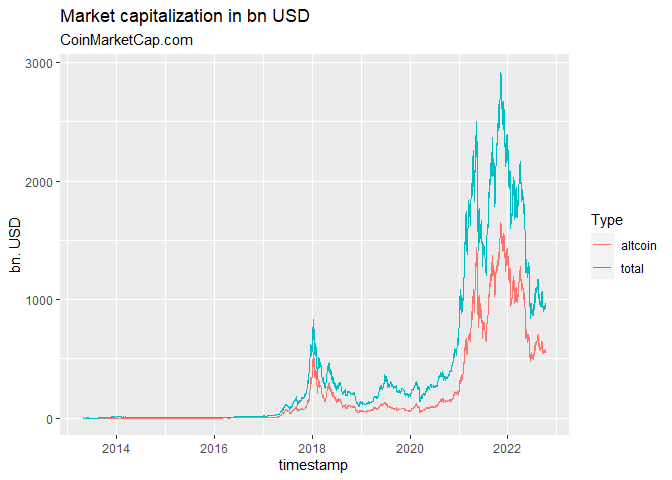
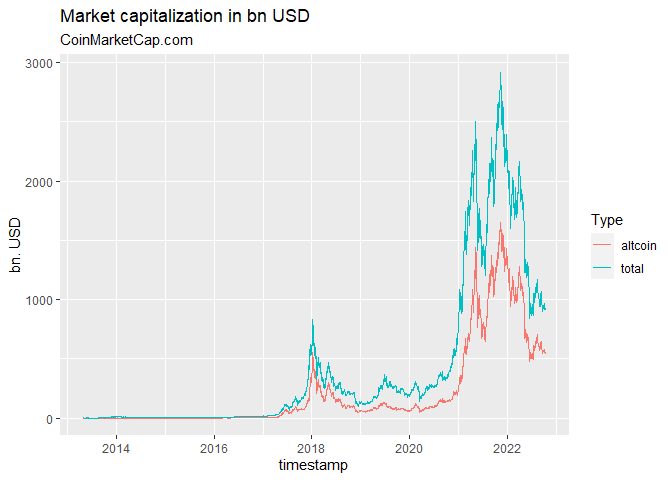
Fix bug, update readme

diff --git a/README.md b/README.md
@@ -59,7 +59,8 @@ It allows the user to retrieve
 # Update
 
 Since version 1.4.5 I have added a new function `crypto_global_quotes()`
-which retrieves global aggregate market statistics for CMC.
+which retrieves global aggregate market statistics for CMC. There also
+were some bugs fixed.
 
 Since version 1.4.4 a new function `crypto_listings()` was introduced
 that retrieves new/latest/historical listings and listing information at
@@ -140,8 +141,6 @@ coin_info <- crypto_info(coins, limit=3, finalWait=FALSE)
 #> 
 #> Scraping  https://web-api.coinmarketcap.com/v1/cryptocurrency/info?id=1,2,3  with  65  characters!
 #> ❯ Processing crypto info
-#> 
-#> ❯ Sleep for 60s before finishing to not have next function call end up with this data!
 #> 
 
 # and give the first two lines of information per coin
@@ -313,16 +312,16 @@ latest_listings
 #> # A tibble: 10 × 23
 #>       id name    symbol slug  self_…¹ self_…² tvl_r…³ last_upd…⁴ USD_p…⁵ USD_v…⁶
 #>    <int> <chr>   <chr>  <chr> <lgl>   <lgl>   <lgl>   <date>       <dbl>   <dbl>
-#>  1     1 Bitcoin BTC    bitc… NA      NA      NA      2022-10-12 1.92e+4 2.52e10
-#>  2    52 XRP     XRP    xrp   NA      NA      NA      2022-10-12 4.89e-1 1.44e 9
-#>  3    74 Dogeco… DOGE   doge… NA      NA      NA      2022-10-12 6.01e-2 2.18e 8
-#>  4   825 Tether  USDT   teth… NA      NA      NA      2022-10-12 1.00e+0 3.35e10
-#>  5  1027 Ethere… ETH    ethe… NA      NA      NA      2022-10-12 1.30e+3 8.35e 9
-#>  6  1839 BNB     BNB    bnb   NA      NA      NA      2022-10-12 2.71e+2 5.58e 8
-#>  7  2010 Cardano ADA    card… NA      NA      NA      2022-10-12 3.81e-1 4.72e 8
-#>  8  3408 USD Co… USDC   usd-… NA      NA      NA      2022-10-12 1.00e+0 3.00e 9
-#>  9  4687 Binanc… BUSD   bina… NA      NA      NA      2022-10-12 1.00e+0 5.31e 9
-#> 10  5426 Solana  SOL    sola… NA      NA      NA      2022-10-12 3.12e+1 5.54e 8
+#>  1     1 Bitcoin BTC    bitc… NA      NA      NA      2022-10-19 1.92e+4 2.36e10
+#>  2    52 XRP     XRP    xrp   NA      NA      NA      2022-10-19 4.62e-1 1.33e 9
+#>  3    74 Dogeco… DOGE   doge… NA      NA      NA      2022-10-19 5.99e-2 2.53e 8
+#>  4   825 Tether  USDT   teth… NA      NA      NA      2022-10-19 1.00e+0 3.33e10
+#>  5  1027 Ethere… ETH    ethe… NA      NA      NA      2022-10-19 1.29e+3 8.45e 9
+#>  6  1839 BNB     BNB    bnb   NA      NA      NA      2022-10-19 2.73e+2 4.98e 8
+#>  7  2010 Cardano ADA    card… NA      NA      NA      2022-10-19 3.57e-1 4.15e 8
+#>  8  3408 USD Co… USDC   usd-… NA      NA      NA      2022-10-19 1.00e+0 2.61e 9
+#>  9  4687 Binanc… BUSD   bina… NA      NA      NA      2022-10-19 1.00e+0 5.91e 9
+#> 10  5426 Solana  SOL    sola… NA      NA      NA      2022-10-19 2.97e+1 6.38e 8
 #> # … with 13 more variables: USD_volume_change_24h <dbl>,
 #> #   USD_percent_change_1h <dbl>, USD_percent_change_24h <dbl>,
 #> #   USD_percent_change_7d <dbl>, USD_percent_change_30d <dbl>,
@@ -333,12 +332,12 @@ latest_listings
 ```
 
 An additional feature that was added in version 1.4.5 retrieves global
-aggregate market statistics for CMC. We can use it to plot
+aggregate market statistics for CMC.
 
 ``` r
 all_quotes <- crypto_global_quotes(which="historical", quote=TRUE)
 all_quotes
-#> # A tibble: 3,447 × 12
+#> # A tibble: 3,453 × 12
 #>    timestamp  btc_domi…¹ activ…² activ…³ activ…⁴ USD_t…⁵ USD_t…⁶ USD_t…⁷ USD_a…⁸
 #>    <date>          <dbl>   <int>   <int>   <int>   <dbl>   <dbl>   <dbl>   <dbl>
 #>  1 2013-04-29       94.2      NA      NA      NA  1.58e9       0      NA  9.19e7
@@ -351,7 +350,7 @@ all_quotes
 #>  8 2013-05-06       94.1      NA      NA      NA  1.37e9       0      NA  8.12e7
 #>  9 2013-05-07       94.4      NA      NA      NA  1.31e9       0      NA  7.38e7
 #> 10 2013-05-08       94.4      NA      NA      NA  1.32e9       0      NA  7.43e7
-#> # … with 3,437 more rows, 3 more variables: USD_altcoin_volume_24h <dbl>,
+#> # … with 3,443 more rows, 3 more variables: USD_altcoin_volume_24h <dbl>,
 #> #   USD_altcoin_volume_24h_reported <dbl>, USD_timestamp <chr>, and abbreviated
 #> #   variable names ¹btc_dominance, ²active_cryptocurrencies, ³active_exchanges,
 #> #   ⁴active_market_pairs, ⁵USD_total_market_cap, ⁶USD_total_volume_24h,
@@ -378,20 +377,20 @@ a list of active/inactive/untracked exchanges using `exchange_list()`:
 ``` r
 exchanges <- exchange_list(only_active=TRUE)
 exchanges
-#> # A tibble: 526 × 6
+#> # A tibble: 527 × 6
 #>       id name         slug         is_active first_historical_data last_histor…¹
 #>    <int> <chr>        <chr>            <int> <date>                <date>       
-#>  1    16 Poloniex     poloniex             1 2018-04-26            2022-10-12   
-#>  2    21 BTCC         btcc                 1 2018-04-26            2022-10-12   
-#>  3    22 Bittrex      bittrex              1 2018-04-26            2022-10-12   
-#>  4    24 Kraken       kraken               1 2018-04-26            2022-10-12   
-#>  5    34 Bittylicious bittylicious         1 2018-04-26            2022-10-12   
-#>  6    36 CEX.IO       cex-io               1 2018-04-26            2022-10-12   
-#>  7    37 Bitfinex     bitfinex             1 2018-04-26            2022-10-12   
-#>  8    42 HitBTC       hitbtc               1 2018-04-26            2022-10-12   
-#>  9    50 EXMO         exmo                 1 2018-04-26            2022-10-12   
-#> 10    61 Okcoin       okcoin               1 2018-04-26            2022-10-12   
-#> # … with 516 more rows, and abbreviated variable name ¹last_historical_data
+#>  1    16 Poloniex     poloniex             1 2018-04-26            2022-10-19   
+#>  2    21 BTCC         btcc                 1 2018-04-26            2022-10-19   
+#>  3    22 Bittrex      bittrex              1 2018-04-26            2022-10-19   
+#>  4    24 Kraken       kraken               1 2018-04-26            2022-10-19   
+#>  5    34 Bittylicious bittylicious         1 2018-04-26            2022-10-19   
+#>  6    36 CEX.IO       cex-io               1 2018-04-26            2022-10-19   
+#>  7    37 Bitfinex     bitfinex             1 2018-04-26            2022-10-19   
+#>  8    42 HitBTC       hitbtc               1 2018-04-26            2022-10-19   
+#>  9    50 EXMO         exmo                 1 2018-04-26            2022-10-19   
+#> 10    61 Okcoin       okcoin               1 2018-04-26            2022-10-19   
+#> # … with 517 more rows, and abbreviated variable name ¹last_historical_data
 ```
 
 and then download information on “binance” and “bittrex”:
@@ -433,8 +432,8 @@ ex_info %>% select(contains("spot"))
 #> # A tibble: 2 × 2
 #>   spot_volume_usd spot_volume_last_updated
 #>             <dbl> <dttm>                  
-#> 1       14153733. 2022-10-12 22:20:16     
-#> 2    10030793849. 2022-10-12 22:20:16
+#> 1       15170263. 2022-10-19 20:15:16     
+#> 2    11045438701. 2022-10-19 20:15:16
 ```
 
 or the fiat currencies allowed:
